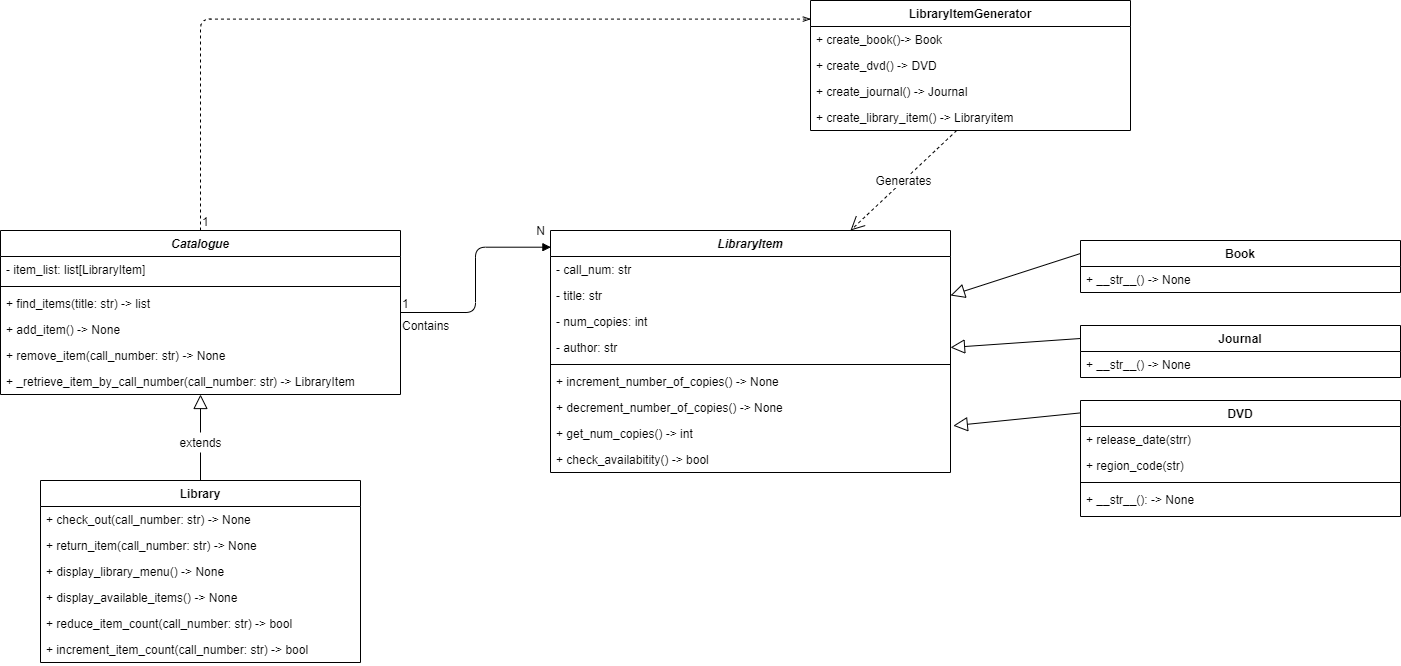
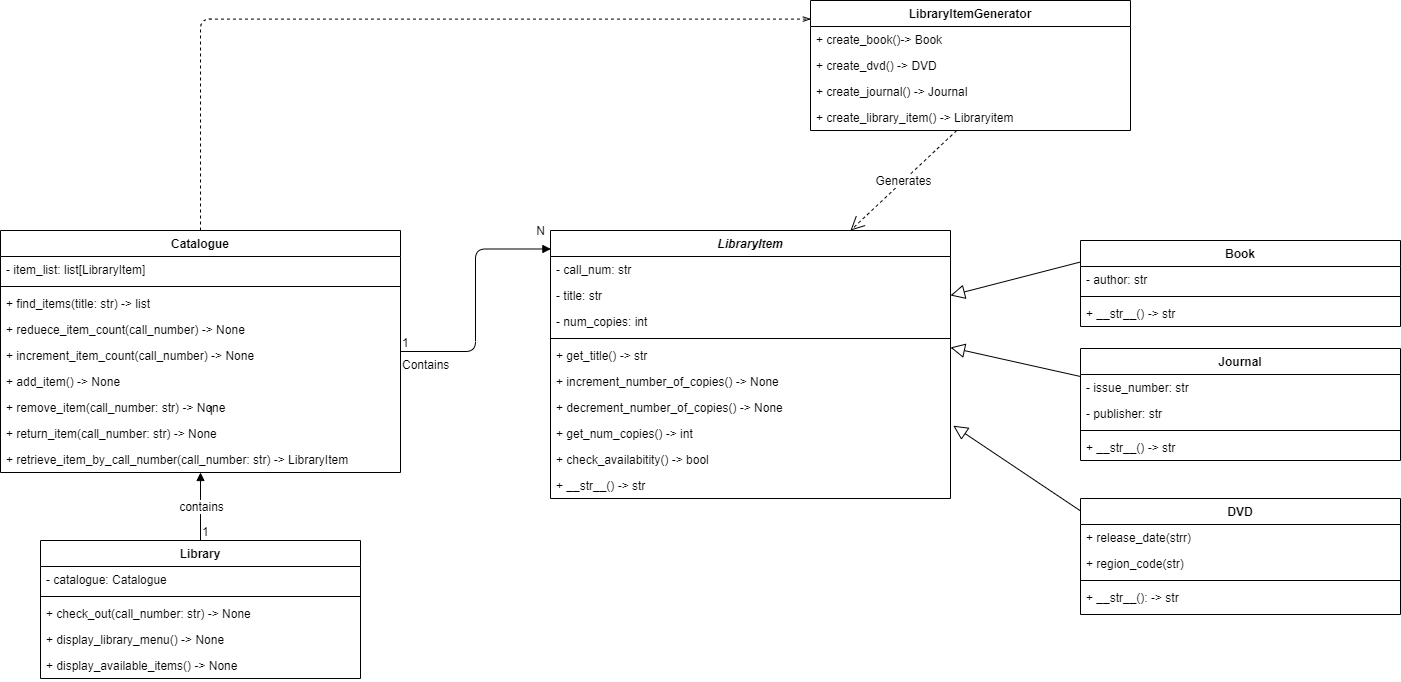
update lab 3

diff --git a/Labs/Lab3/library.py b/Labs/Lab3/library.py
@@ -3,20 +3,28 @@ from book import Book
 from dvd import DVD
 from journal import Journal
 from catalogue import Catalogue
+from library_item import LibraryItem
 
 
-class Library(Catalogue):
+class Library:
     """
     The Library consists of a list of books and provides an
     interface for users to check out, return and find books.
     """
 
-    def __init__(self, item_list: list) -> None:
+    def __init__(self, item_list: list[LibraryItem]) -> None:
         """
         Initialize the library with a list of books.
         :param item_list: a sequence of book objects.
         """
-        super().__init__(item_list)
+        self._catalogue = Catalogue(item_list)
+
+    @property
+    def catalogue(self) -> Catalogue:
+        """
+        Creates the property for getting the catalogue.
+        """
+        return self._catalogue
 
     def check_out(self, call_number) -> None:
         """
@@ -24,13 +32,13 @@ class Library(Catalogue):
         :param call_number: a string
         :precondition call_number: a unique identifier
         """
-        library_book = self._retrieve_item_by_call_number(call_number)
+        library_book = self.catalogue.retrieve_item_by_call_number(call_number)
         if library_book is None:
             print(f"Could not find book with call number {call_number}"
                   f". Checkout failed.")
             return None
         if library_book.check_availability():
-            status = self.reduce_item_count(call_number)
+            status = self.catalogue.reduce_item_count(call_number)
             if status:
                 print("Checkout complete!")
             else:
@@ -74,10 +82,10 @@ class Library(Catalogue):
             elif user_input == 3:
                 call_number = input("Enter the call number of the book"
                                     " you wish to return.")
-                self.return_item(call_number)
+                self.catalogue.return_item(call_number)
             elif user_input == 4:
                 input_title = input("Enter the title of the book:")
-                found_titles = set(self.find_items(input_title))
+                found_titles = set(self.catalogue.find_items(input_title))
                 print("We found the following:")
                 if len(found_titles) > 0:
                     for title in found_titles:
@@ -86,11 +94,11 @@ class Library(Catalogue):
                     print("Sorry! We found nothing with that title")
 
             elif user_input == 5:
-                self.add_item()
+                self.catalogue.add_item()
 
             elif user_input == 6:
                 call_number = input("Enter the call number of the book")
-                self.remove_item(call_number)
+                self.catalogue.remove_item(call_number)
 
             elif user_input == 7:
                 pass
@@ -106,7 +114,7 @@ class Library(Catalogue):
         """
         print("Books List")
         print("--------------", end="\n\n")
-        for index, library_book in enumerate(self._item_list):
+        for index, library_book in enumerate(self.catalogue.item_list):
             print(index + 1, ": ", library_book)
 
 
@@ -121,7 +129,7 @@ def generate_test_books() -> list:
         Book("631.495.302", "Harry Potter 3", 4, "J K Rowling"),
         Book("123.02.204", "The Cat in the Hat", 1, "Dr. Seuss"),
         Journal("100.132.126", "My Travel", 5, "123.1231.614a", "Luke"),
-        DVD("123.456.123", "My Dream", 10, "Mike", "2020-03-10", "123")
+        DVD("123.456.123", "My Dream", 10, "2020-03-10", "123")
     ]
     return book_list
 

diff --git a/Labs/Lab3/catalogue.py b/Labs/Lab3/catalogue.py
@@ -5,11 +5,10 @@
 
 from library_item import LibraryItem
 import difflib
-from abc import ABC
 from library_item_generator import LibraryItemGenerator
 
 
-class Catalogue(ABC):
+class Catalogue:
     """
     Implement a Catalogue class will now be responsible for maintaining a list of books.
     Move all the methods and code related to searching, adding and removing books to this new class
@@ -21,6 +20,15 @@ class Catalogue(ABC):
         :param item_list: a sequence of book objects.
         """
         self._item_list = item_list
+
+    @property
+    def item_list(self) -> list[LibraryItem]:
+        """
+        Property for item list.
+
+        :return: the property for item list
+        """
+        return self._item_list
 
     def find_items(self, title: str) -> list:
         """
@@ -38,7 +46,7 @@ class Catalogue(ABC):
         """
         new_item = LibraryItemGenerator.create_library_item()
 
-        found_item = self._retrieve_item_by_call_number(new_item.call_number)
+        found_item = self.retrieve_item_by_call_number(new_item.call_number)
         if found_item:
             print(f"Could not add Item with call number "
                   f"{new_item.call_number}. It already exists. ")
@@ -53,7 +61,7 @@ class Catalogue(ABC):
         :param call_number: a string
         :precondition call_number: a unique identifier
         """
-        found_book = self._retrieve_item_by_call_number(call_number)
+        found_book = self.retrieve_item_by_call_number(call_number)
         if found_book:
             self._item_list.remove(found_book)
             print(f"Successfully removed {found_book.get_title()} with "
@@ -70,7 +78,7 @@ class Catalogue(ABC):
         :return: True if the book was found and count decremented, false
         otherwise.
         """
-        library_book = self._retrieve_item_by_call_number(call_number)
+        library_book = self.retrieve_item_by_call_number(call_number)
         if library_book:
             library_book.decrement_number_of_copies()
             return True
@@ -85,7 +93,7 @@ class Catalogue(ABC):
         :return: True if the book was found and count incremented, false
         otherwise.
         """
-        library_book = self._retrieve_item_by_call_number(call_number)
+        library_book = self.retrieve_item_by_call_number(call_number)
         if library_book:
             library_book.increment_number_of_copies()
             return True
@@ -104,7 +112,7 @@ class Catalogue(ABC):
             print(f"Could not find book with call number {call_number}"
                   f". Return failed.")
 
-    def _retrieve_item_by_call_number(self, call_number: str) -> LibraryItem or None:
+    def retrieve_item_by_call_number(self, call_number: str) -> LibraryItem or None:
         """
         A private method that encapsulates the retrieval of an book with
         the given call number from the library.

diff --git a/Labs/Lab3/library_item.py b/Labs/Lab3/library_item.py
@@ -11,19 +11,17 @@ class LibraryItem(ABC):
     - Journal
     """
 
-    def __init__(self, call_num: str, title: str, num_copies: int, author: str):
+    def __init__(self, call_num: str, title: str, num_copies: int):
         """
         :param call_num: a string
         :param title: a string
         :param num_copies: an int
-        :param author: a string
         :precondition call_num: a unique identifier
         :precondition num_copies: a positive integer
         """
         self._call_num = call_num
         self._title = title
         self._num_copies = num_copies
-        self._author = author
 
     def get_title(self) -> str:
         """
@@ -68,18 +66,6 @@ class LibraryItem(ABC):
         :return:
         """
         return self._call_num
-
-    # @call_number.setter
-    # def call_number(self, value):
-    #     """
-    #     This is the decorator way to create a SET property. This would
-    #     allow us to invoke this method by simply saying
-    #     my_book.call_number = "102.345.992". I've commented this out
-    #     since call numbers should not need a setter.
-    #     :param value: a string
-    #     :precondition value: a unique call number identifier
-    #     """
-    #     self._call_num = value
 
     def check_availability(self) -> bool:
         """

diff --git a/Labs/Lab3/library_item_generator.py b/Labs/Lab3/library_item_generator.py
@@ -35,10 +35,9 @@ class LibraryItemGenerator:
         title = input("Enter title: ")
         num_copies = int(input("Enter number of copies "
                                "(positive number): "))
-        author = input("Enter Author Name: ")
         release_day = input("Enter Release Day:")
         region_code = input("Enter Region Code:")
-        return DVD(call_number, title, num_copies, author, release_day, region_code)
+        return DVD(call_number, title, num_copies, release_day, region_code)
 
     @staticmethod
     def create_journal() -> Journal:
@@ -49,8 +48,8 @@ class LibraryItemGenerator:
         title = input("Enter Journal Name: ")
         num_copies = int(input("Enter Number of Copies: "))
         issue_number = input("Enter Issue Number: ")
-        author = input("Enter Publisher Name: ")
-        return Journal(call_number, title, num_copies, issue_number, author)
+        publisher = input("Enter Publisher Name: ")
+        return Journal(call_number, title, num_copies, issue_number, publisher)
 
     @staticmethod
     def create_library_item() -> LibraryItem:

diff --git a/Labs/Lab3/dvd.py b/Labs/Lab3/dvd.py
@@ -11,8 +11,8 @@ class DVD(LibraryItem):
     DVD has a release date, and a region code.
     """
 
-    def __init__(self, call_num: str, title: str, num_copies: int, author: str, release_date: str, region_code: str):
-        super().__init__(call_num, title, num_copies, author)
+    def __init__(self, call_num: str, title: str, num_copies: int, release_date: str, region_code: str):
+        super().__init__(call_num, title, num_copies)
         self._release_date = release_date
         self._region_code = region_code
 
@@ -35,5 +35,4 @@ class DVD(LibraryItem):
         return f"---- DVD: {self.get_title()} ----\n" \
                f"Call Number: {self.call_number}\n" \
                f"Number of Copies: {self._num_copies}\n" \
-               f"Author: {self._author}\n" \
                f"Release Date: {self._release_date}"

diff --git a/Labs/Lab3/journal.py b/Labs/Lab3/journal.py
@@ -18,7 +18,8 @@ class Journal(LibraryItem):
         :param issue_number: Issue Number as a string.
         :param publisher: Publisher as a string.
         """
-        super().__init__(call_num, names, number_of_copy, publisher)
+        super().__init__(call_num, names, number_of_copy)
+        self._publisher = publisher
         self._issue_number = issue_number
 
     def __str__(self) -> str:
@@ -29,4 +30,4 @@ class Journal(LibraryItem):
                f"Call Number: {self.call_number}\n" \
                f"Number Of Copy: {self._num_copies}\n" \
                f"Issue Number: {self._issue_number}\n" \
-               f"Publisher: {self._author}"
+               f"Publisher: {self._publisher}"

diff --git a/Labs/Lab3/book.py b/Labs/Lab3/book.py
@@ -12,7 +12,8 @@ class Book(LibraryItem):
     """
 
     def __init__(self, call_num: str, title: str, num_copies: int, author: str) -> None:
-        super().__init__(call_num, title, num_copies, author)
+        super().__init__(call_num, title, num_copies)
+        self._author = author
 
     def __str__(self) -> str:
         """
